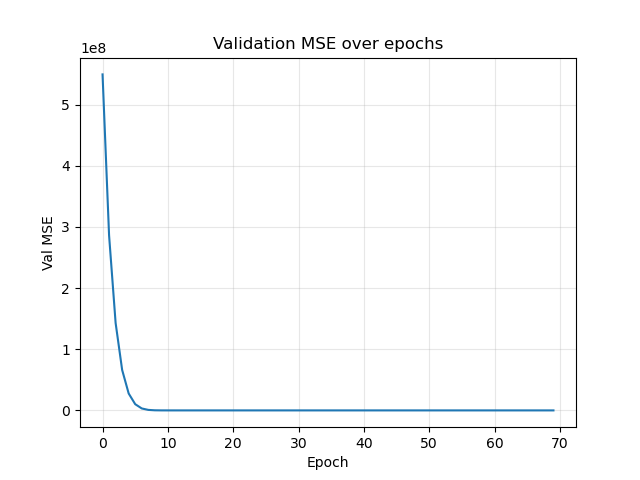
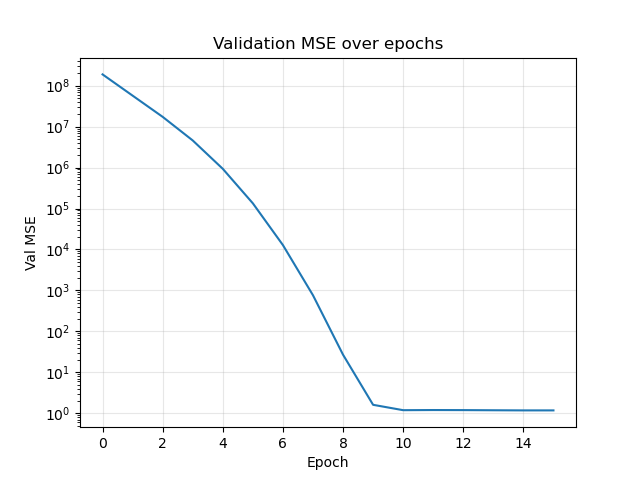
모델 개선중

diff --git a/benchmark/Hourly_Energy_Consumption_Test/train_msfr.py b/benchmark/Hourly_Energy_Consumption_Test/train_msfr.py
@@ -56,10 +56,11 @@ def train_val_split(X: torch.Tensor, y: torch.Tensor, val_ratio: float = 0.1) ->
     return (X[:split], y[:split]), (X[split:], y[split:])
 
 def lr_lambda(epoch):
-    if epoch < 60:
+    if epoch < 40:
         return 1.0
     else:
-        return 0.95 ** (epoch - 60)
+        # return 0.95 ** (epoch - 40)
+        return 1.0
 
 def make_plots(cycle_hist, train_mse_hist, val_mse_hist, bias_hist, args, model):
     # 1) cycle 
@@ -80,6 +81,7 @@ def make_plots(cycle_hist, train_mse_hist, val_mse_hist, bias_hist, args, model)
     fig2 = plt.figure()
     plt.plot(train_mse_hist)
     plt.xlabel("Epoch")
+    plt.yscale("log")
     plt.ylabel("Train MSE")
     plt.title("Train MSE over epochs")
     plt.grid(True, alpha=0.3)
@@ -87,6 +89,7 @@ def make_plots(cycle_hist, train_mse_hist, val_mse_hist, bias_hist, args, model)
     # 3) Validation MSE
     fig3 = plt.figure()
     plt.plot(val_mse_hist)
+    plt.yscale("log")
     plt.xlabel("Epoch")
     plt.ylabel("Val MSE")
     plt.title("Validation MSE over epochs")
@@ -160,7 +163,11 @@ def main():
     val_mse_hist = []        # [mse_epoch1, mse_epoch2, ...]
     bias_hist = []
 
-    epochs = 70
+    # 모델이 핵심 패턴을 매우 초기에 학습했고, 이후 학습은 성능 개선 없이 파라미터 드리프트만 유발했기 때문에 에폭을 줄임.
+    # 줄이게 된 계기는 평가, 학습 mse 그래프의 단위가 10^8 이여서 뒷 구간의 mse변화가 안보였음
+    # 하지만 log로 바꾸니 30에폭부터 mse값이 요동치는게 보였음
+    # 실제로 30에폭일때나 12에폭일때나 최종 평가 rmse값은 미세한 차이였음
+    epochs = 12
     for epoch in range(1, epochs + 1):
         model.train()
         total_loss = 0.0
